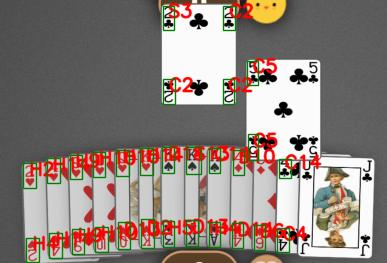
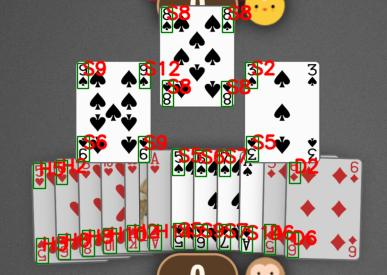
feat: Final state

diff --git a/GUI/main.py b/GUI/main.py
@@ -3,13 +3,14 @@
 
 import sys, os
 
-sys.path.append(os.path.abspath(os.path.join(os.path.dirname(__file__), '..')))
+# sys.path.append(os.path.abspath(os.path.join(os.path.dirname(__file__), '..')))
 
 import cv2
 import matplotlib.pyplot as plt
 import matplotlib.patches as patches
 import numpy as np
 import pyautogui
+import copy
 
 from hearts.game_engine import *
 from poker.poker import *
@@ -27,6 +28,7 @@ from kivy.core.window import Window
 from PIL import ImageGrab
 from ultralytics import YOLO
 from typing import List, Tuple, Union
+
 
 
 IMG_SIZE = 640
@@ -58,6 +60,8 @@ class MenuScreen(Screen):
         self.b = None
         self.mouse_coords = None
         self.snip_coords = []
+        self.cards1 = []
+        self.cards2 = []
 
     def take_screenshot(self) -> None:
         self.file_name = "screenshot.png"
@@ -113,19 +117,47 @@ class MenuScreen(Screen):
         table_img.source = "image.jpg"
         table_img.reload()
 
-        with open('..\hearts\input_cards.txt', 'w') as f:
-            cards = []
+        cards = []
 
-            for card in self.cards:
-                suit = card.name_short[0]
-                symbol = card.name_short[1:len(card.name_short)]
-                name = f"{symbol},{suit}"
+        for card in self.cards:
+            new = True
 
-                if name not in cards:
-                    cards.append(name)
+            for i in range(len(cards)):
+                if cards[i].name == card.name:
+                    x1, y1, w1, h1 = card.coords
+                    x2, y2, w2, h2 = cards[i].coords
+                    new = False
 
-            cards = cards[:12]
-            f.write("\n".join(cards))
+                    if y1 > y2:
+                        cards.pop(i)
+                        cards.append(card)
+
+            if new:
+                cards.append(card)
+
+        with open('..\hearts\input_cards.txt', 'w') as f1:
+            with open('..\hearts\played_cards.txt', 'w') as f2:
+                cards1 = []
+                cards2 = []
+                H = self.img.shape[0]
+
+                for card in cards:
+                    suit = card.name_short[0]
+                    symbol = card.name_short[1:len(card.name_short)]
+                    name = f"{symbol},{suit}"
+
+                    x, y, w, h = card.coords
+
+                    if y < H - 100:
+                        cards2.append(name)
+
+                    else:
+                        cards1.append(name)
+
+                f1.write("\n".join(cards1[:13]))
+                f2.write("\n".join(cards2[:3]))
+                self.cards1 = cards1[:2]
+                self.cards2 = cards2[:5]
 
     def predict(self) -> None:
         self.cards = []
@@ -242,8 +274,26 @@ class MenuScreen(Screen):
         self.display_img(ax)
 
     def run(self) -> None:
-        engine_ = HeartsEngine.create()
-        best_card = engine_.play(50)
+        game_type = self.ids["game_type"].text
+        print(game_type)
+
+        if game_type == "Hearts":
+            engine_ = HeartsEngine.create()
+            best_card = engine_.play(50)
+            self.ids["result_label"].text = str(best_card)
+
+        else:
+            print(self.cards1, self.cards2)
+            # if self.ids["n_players"].text != "":
+                # res = count_probability(self.cards1, self.cards2, int(self.ids["n_players"].text))
+            res = count_probability(['8,H', '6,H'], ['6,S', '7,S', '9,S', '5,S', '10,C'], 5)
+            # res = count_probability(["2,C", "5,S"], ["3,S", "5,H", "13,H"], 5)
+            print(res)
+            self.ids["result_label"].text = f"{res[0]},{res[1]}"
+
+    def change_game(self) -> None:
+        game_type = self.ids["game_type"].text
+        self.ids["game_type"].text = "Poker" if game_type == "Hearts" else "Hearts"
 
 
 class TestApp(App):
@@ -294,6 +344,4 @@ class TestApp(App):
 
 
 if __name__ == "__main__":
-    #TestApp().run()
-    res = count_probability(["2,C", "5,S"], ["3,S", "5,H", "13,H"], 5)
-    print(res)
+    TestApp().run()

diff --git a/libs/PokerOddsCalc/table.py b/libs/PokerOddsCalc/table.py
@@ -22,7 +22,7 @@ class Table:
         self.deck_arr = self.generate_deck(deck_type)
         self.player_hands = {player_num: Hand(hand_limit) for player_num in range(1, num_players + 1)}
         self.num_players = num_players
-        self.community_arr = np.zeros(shape=(0, 2), dtype=np.int)
+        self.community_arr = np.zeros(shape=(0, 2), dtype=np.int32)
 
     def generate_deck(self, deck_type):
 
@@ -168,8 +168,8 @@ class Table:
         return output_dict
 
     def view_result(self):
-        player_rank = np.zeros(self.num_players, dtype=np.int)
-        player_hand_type = np.zeros(self.num_players, dtype=np.int)
+        player_rank = np.zeros(self.num_players, dtype=np.int32)
+        player_hand_type = np.zeros(self.num_players, dtype=np.int32)
 
         for player in range(self.num_players):
             player_combos, player_res_arr = self.player_hands[player + 1].hand_value(self.community_arr)
@@ -213,7 +213,7 @@ class HoldemTable(Table):
         return outcome_dict
 
     def simulate_calculation(self, community_cards, undrawn_combos):
-        res_arr = np.zeros(shape=(len(undrawn_combos), self.num_players), dtype=np.int)
+        res_arr = np.zeros(shape=(len(undrawn_combos), self.num_players), dtype=np.int32)
         if self.num_players >= 2:
             Parallel(n_jobs=multiprocessing.cpu_count(), backend="threading") \
                 (delayed(self.gen_single_hand)(community_cards, player, undrawn_combos, res_arr) for player in range(self.num_players))
@@ -258,7 +258,7 @@ class OmahaTable(Table):
         return outcome_dict
 
     def simulate_calculation(self, community_cards, undrawn_combos):
-        res_arr = np.zeros(shape=(len(undrawn_combos), self.num_players), dtype=np.int)
+        res_arr = np.zeros(shape=(len(undrawn_combos), self.num_players), dtype=np.int32)
 
         if self.num_players >= 2:
             Parallel(n_jobs=multiprocessing.cpu_count(), backend="threading") \

diff --git a/libs/PokerOddsCalc/ranker.py b/libs/PokerOddsCalc/ranker.py
@@ -40,7 +40,7 @@ class Ranker:
         suit_arr = gen_suit_arr(suit_combos)
         straight_arr = gen_straight_arr(num_combos)
 
-        rank_arr = np.zeros(num_combos.shape[0], dtype=np.int)
+        rank_arr = np.zeros(num_combos.shape[0], dtype=np.int32)
 
         straight_flush_check(num_combos, rank_arr, straight_arr, suit_arr)
         four_of_a_kind_check(num_combos, rank_arr)
@@ -55,7 +55,7 @@ class Ranker:
 
 ### Helper Functions
 def gen_straight_arr(num_combos):
-    straight_check = np.zeros(len(num_combos), dtype=np.int)
+    straight_check = np.zeros(len(num_combos), dtype=np.int32)
     for i in range(4):
         if i <= 2:
             straight_check += (num_combos[:, i] == (num_combos[:, i + 1] - 1)).astype(int)

diff --git a/libs/PokerOddsCalc/hand.py b/libs/PokerOddsCalc/hand.py
@@ -9,7 +9,7 @@ class Hand:
     def __init__(self, hand_limit=2):
 
         self.hand_limit = hand_limit
-        self.card_arr = np.zeros(shape=(0, hand_limit), dtype=np.int)
+        self.card_arr = np.zeros(shape=(0, hand_limit), dtype=np.int32)
 
     def add_cards(self, cards):
 
